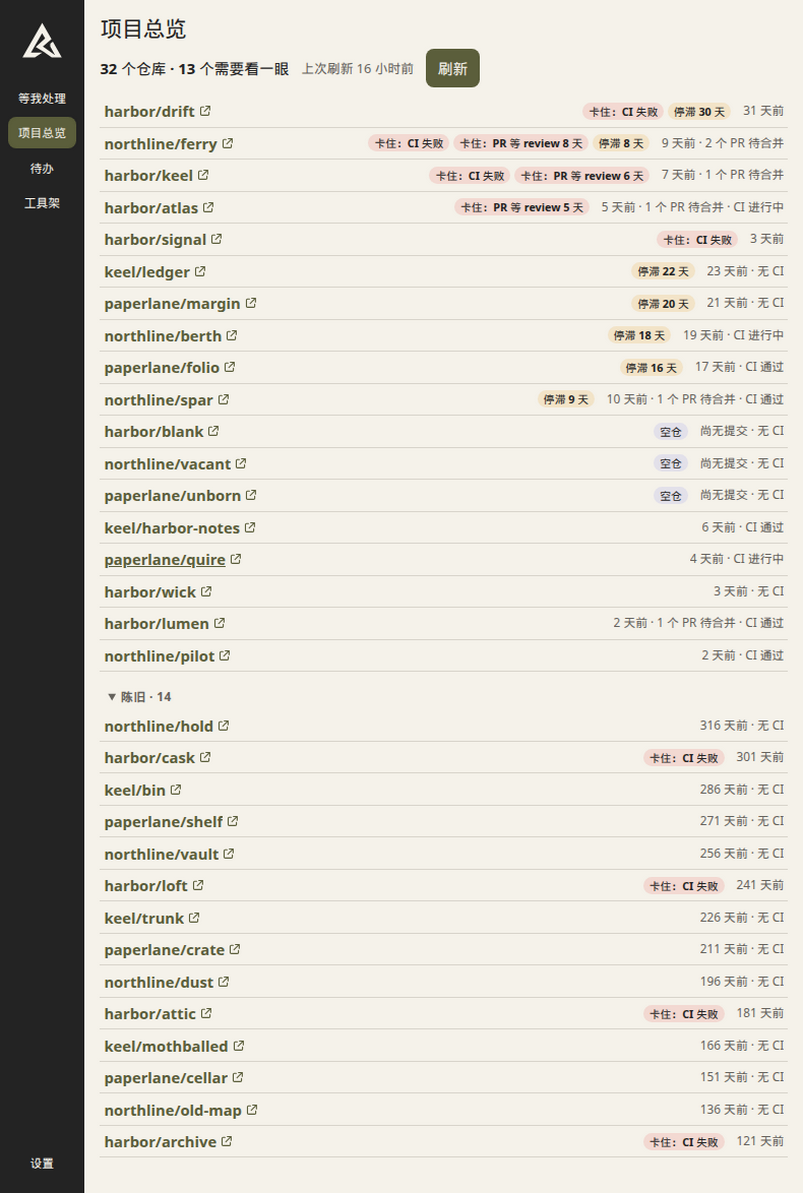
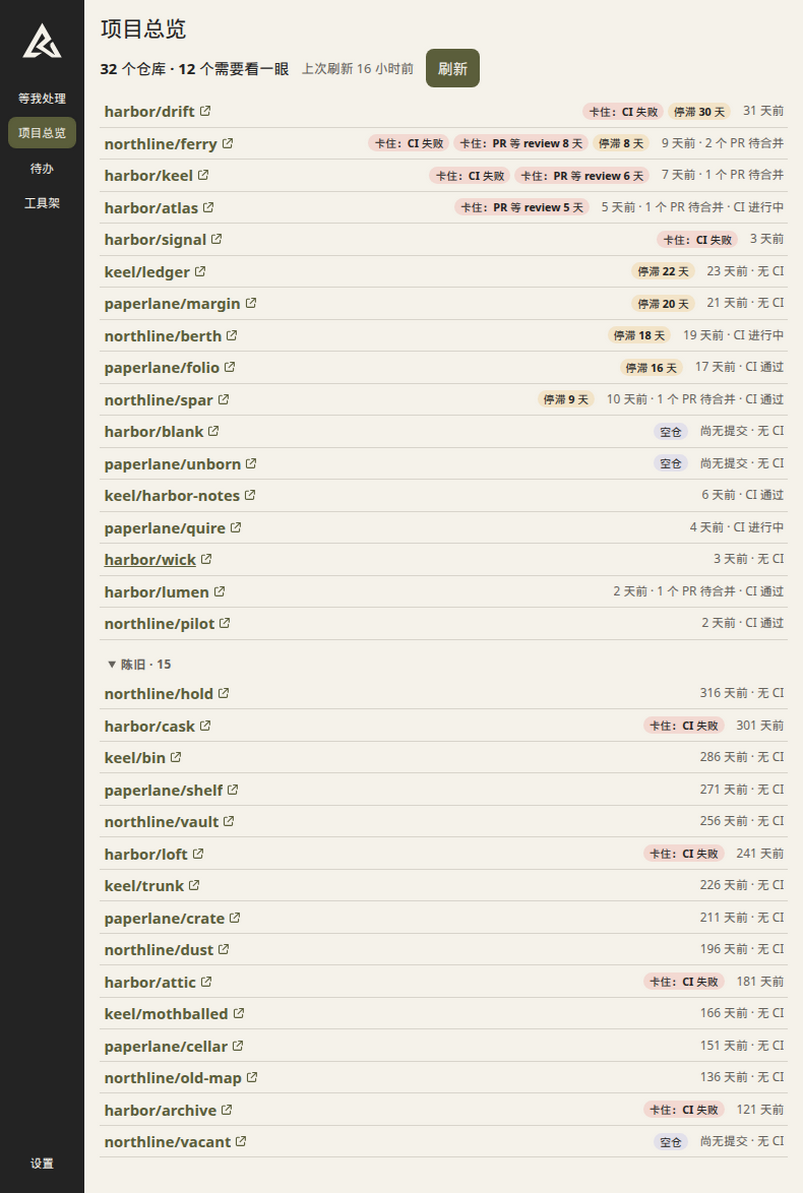
#3 空仓按创建和推送时间进入陈旧
没有提交也没有 Issue/PR 活动的仓库不再一律算活跃。最近活动取最后提交、Issue/PR、pushed_at 和 created_at 里最新的一个，超过陈旧天数就进陈旧分组，顶部计数仍排除这些行。

diff --git a/test/overview.test.ts b/test/overview.test.ts
@@ -32,6 +32,7 @@ function facts(patch: Partial<OverviewRepoFacts> = {}): OverviewRepoFacts {
     sizeKb: 24,
     hasDefaultBranchCommit: true,
     pushedAt: ago(1),
+    createdAt: null,
     lastCommitAt: ago(1),
     lastIssueActivityAt: null,
     openPrCount: 0,
@@ -167,8 +168,17 @@ describe('overview warnings', () => {
     expect(kinds(classifyOverview([facts({ sizeKb: 0 })], rules, NOW)[0]!)).toContain('空仓')
     expect(kinds(classifyOverview([facts({ hasDefaultBranchCommit: false, lastCommitAt: null })], rules, NOW)[0]!)).toContain('空仓')
 
-    const ancient = classifyOverview([facts({
+    const pushedRecently = classifyOverview([facts({
       pushedAt: ago(1),
+      createdAt: ago(200),
+      lastCommitAt: ago(91),
+      lastIssueActivityAt: ago(91)
+    })], rules, NOW)[0]
+    expect(pushedRecently?.group).toBe('active')
+    expect(kinds(pushedRecently!)).toEqual(['停滞'])
+    const ancient = classifyOverview([facts({
+      pushedAt: ago(91),
+      createdAt: ago(200),
       lastCommitAt: ago(91),
       lastIssueActivityAt: ago(91)
     })], rules, NOW)[0]
@@ -423,6 +433,69 @@ describe('overview warnings', () => {
     expect(countsAsAttention(activeEmpty)).toBe(true)
     expect(overviewCounts([staleFailure, staleEmpty, activeEmpty, aged(29)])).toEqual({ repos: 4, attention: 2 })
   })
+
+  it('groups an empty repo by the newest of commit, issue activity, push, and creation', () => {
+    const rules = config()
+    const untouched = (createdDays: number, patch: Partial<OverviewRepoFacts> = {}) => classifyOverview([facts({
+      name: 'example/untouched',
+      url: 'https://github.com/example/untouched',
+      isEmpty: true,
+      sizeKb: 0,
+      hasDefaultBranchCommit: false,
+      pushedAt: null,
+      lastCommitAt: null,
+      lastIssueActivityAt: null,
+      createdAt: ago(createdDays),
+      ciState: 'none',
+      ...patch
+    })], rules, NOW)[0]!
+
+    const yearsOld = untouched(800)
+    expect(yearsOld.group).toBe('stale')
+    expect(kinds(yearsOld)).toEqual(['空仓', '陈旧'])
+    expect(kinds(yearsOld)).not.toContain('停滞')
+    expect(visibleWarningChips(yearsOld).map(item => item.kind)).toEqual(['空仓'])
+    expect(countsAsAttention(yearsOld)).toBe(false)
+    expect(overviewCounts([yearsOld])).toEqual({ repos: 1, attention: 0 })
+
+    const born29 = untouched(29)
+    const born30 = untouched(30)
+    const born31 = untouched(31)
+    expect(born29.group).toBe('active')
+    expect(born30.group).toBe('active')
+    expect(born31.group).toBe('stale')
+    expect(kinds(born29)).toEqual(['空仓'])
+    expect(kinds(born29)).not.toContain('停滞')
+    expect(kinds(untouched(6))).not.toContain('停滞')
+    expect(countsAsAttention(born29)).toBe(true)
+    expect(countsAsAttention(born31)).toBe(false)
+    expect(visibleWarningChips(born31).map(item => item.kind)).toEqual(['空仓'])
+    expect(overviewCounts([born29, born31])).toEqual({ repos: 2, attention: 1 })
+
+    const discussed = untouched(400, { lastIssueActivityAt: ago(10) })
+    expect(discussed.group).toBe('active')
+    expect(kinds(discussed)).toEqual(['空仓'])
+    expect(countsAsAttention(discussed)).toBe(true)
+    expect(overviewCounts([discussed])).toEqual({ repos: 1, attention: 1 })
+
+    const pushed = (days: number) => untouched(400, {
+      name: 'example/side-push',
+      url: 'https://github.com/example/side-push',
+      isEmpty: false,
+      sizeKb: 4,
+      pushedAt: ago(days)
+    })
+    const recentPush = pushed(5)
+    expect(recentPush.group).toBe('active')
+    expect(kinds(recentPush)).toEqual(['空仓'])
+    expect(kinds(recentPush)).not.toContain('停滞')
+    expect(countsAsAttention(recentPush)).toBe(true)
+    const oldPush = pushed(40)
+    expect(oldPush.group).toBe('stale')
+    expect(visibleWarningChips(oldPush).map(item => item.kind)).toEqual(['空仓'])
+    expect(countsAsAttention(oldPush)).toBe(false)
+    expect(overviewCounts([recentPush, oldPush])).toEqual({ repos: 2, attention: 1 })
+  })
 })
 
 describe('overview loading', () => {
@@ -568,6 +641,7 @@ describe('overview loading', () => {
       isEmpty: empty,
       diskUsage: empty ? 0 : 8,
       pushedAt: empty ? null : ago(days),
+      createdAt: empty ? ago(500) : ago(days),
       defaultBranchRef: empty ? null : { target: { oid: 'abc', committedDate: ago(days), statusCheckRollup: null } },
       pullRequests: { totalCount: 0, nodes: [] },
       issues: { nodes: [] },
@@ -625,14 +699,16 @@ describe('overview loading', () => {
     expect(queries.some(query => /watching\s*\(/.test(query))).toBe(false)
     expect(queries.some(query => query.includes('OWNER, COLLABORATOR, ORGANIZATION_MEMBER'))).toBe(true)
     expect(seen.sort()).toEqual(['blank', 'collab', 'member', 'owned'])
+    expect(queries.some(query => query.includes('\n  createdAt\n'))).toBe(true)
     expect(result.rows.map(row => [row.name, row.group])).toEqual([
       ['example/collab', 'active'],
-      ['example/blank', 'active'],
       ['example/owned', 'active'],
-      ['example/member', 'stale']
+      ['example/member', 'stale'],
+      ['example/blank', 'stale']
     ])
     expect(result.rows.some(row => row.name.includes('only-watch') || row.name.includes('reader') || row.name.includes('triage'))).toBe(false)
-    expect(overviewCounts(result.rows)).toEqual({ repos: 4, attention: 2 })
+    expect(visibleWarningChips(result.rows.find(row => row.name === 'example/blank')!).map(item => item.kind)).toEqual(['空仓'])
+    expect(overviewCounts(result.rows)).toEqual({ repos: 4, attention: 1 })
     expect(result.rows.find(row => row.name === 'example/collab')?.warnings.map(item => item.kind)).toEqual(['停滞'])
     expect(result.rows.find(row => row.name === 'example/member')?.warnings.map(item => item.kind)).toEqual(['陈旧'])
   })
@@ -840,12 +916,21 @@ describe('repository node', () => {
       isEmpty: false,
       diskUsage: 0,
       pushedAt: null,
+      createdAt: ago(3),
       defaultBranchRef: null,
       pullRequests: { totalCount: 0, nodes: [] }
     }, 'example/new')
     expect(parsed.hasDefaultBranchCommit).toBe(false)
+    expect(parsed.createdAt).toBe(ago(3))
     expect(parsed.sizeKb).toBe(0)
-    expect(kinds(classifyOverview([parsed], config(), NOW)[0]!)).toContain('空仓')
+    const fresh = classifyOverview([parsed], config(), NOW)[0]!
+    expect(fresh.group).toBe('active')
+    expect(kinds(fresh)).toEqual(['空仓'])
+    expect(kinds(fresh)).not.toContain('停滞')
+    const dormant = classifyOverview([{ ...parsed, createdAt: ago(400) }], config(), NOW)[0]!
+    expect(dormant.group).toBe('stale')
+    expect(countsAsAttention(dormant)).toBe(false)
+    expect(visibleWarningChips(dormant).map(item => item.kind)).toEqual(['空仓'])
   })
 
   it('reads issue and pull comment times as activity, not only the commit', () => {

diff --git a/src/renderer/overview-settings.ts b/src/renderer/overview-settings.ts
@@ -36,7 +36,7 @@ export function renderOverviewSettings(state: AppState, rerender: () => Promise<
   const card = el('section', { class: 'card', id: 'overview-settings' }, [
     el('h2', {}, ['项目总览']),
     el('p', { class: 'hint' }, [
-      '关注列表留空时走自动模式，收录你有写权限的全部仓库：你拥有的、你是协作者的、以及你作为组织成员并且有推送权限的。只 watch、没有写权限的仓库不会出现，已归档的仓库默认也不出现。有提交或 Issue/PR 活动还在陈旧天数以内的进活跃列表，更久的进「陈旧」。每个仓库都会落在这两组之一。天数对所有仓库一视同仁，不写死某个仓库。'
+      '关注列表留空时走自动模式，收录你有写权限的全部仓库：你拥有的、你是协作者的、以及你作为组织成员并且有推送权限的。只 watch、没有写权限的仓库不会出现，已归档的仓库默认也不出现。没有单独的最近推送窗口。最近活动取最后一次提交、最近的 Issue/PR 活动、仓库推送时间和仓库创建时间里最新的一个（缺了哪项就跳过）；还在陈旧天数以内的进活跃列表，更久的进「陈旧」。每个未归档仓库都会落在这两组之一。天数对所有仓库一视同仁，不写死某个仓库。'
     ])
   ])
   const staleDays = numberField('停滞天数', config.staleDays)
@@ -68,7 +68,7 @@ export function renderOverviewSettings(state: AppState, rerender: () => Promise<
   card.append(
     el('h3', {}, ['停滞天数']),
     el('p', { class: 'hint' }, [
-      `默认 ${DEFAULT_STALE_DAYS} 天，只判活跃列表里的仓库。默认分支上的最后一次提交，以及 Issue / PR 的创建、更新和评论，两边都满了这么多天才标成停滞；有一边还在这段时间里就不算。行上的「停滞 X 天」按较新的那一边计算。陈旧分组里的仓库不再标停滞。`
+      `默认 ${DEFAULT_STALE_DAYS} 天，只判活跃列表里的仓库。默认分支上的最后一次提交，以及 Issue / PR 的创建、更新和评论，两边都满了这么多天才标成停滞；有一边还在这段时间里就不算。行上的「停滞 X 天」按较新的那一边计算。陈旧分组里的仓库不再标停滞。刚创建、还没有任何提交或 Issue/PR 活动的空仓不算停滞。`
     ]),
     staleDays,
     el('h3', {}, ['review 等待天数']),
@@ -76,7 +76,7 @@ export function renderOverviewSettings(state: AppState, rerender: () => Promise<
     reviewWaitDays,
     el('h3', {}, ['陈旧天数']),
     el('p', { class: 'hint' }, [
-      `默认 ${DEFAULT_STALE_REPO_DAYS} 天。看默认分支提交和 Issue / PR 活动里较新的那个时间：还在这么多天以内（含刚好这么多天）留在活跃列表，再久就收进可折叠的陈旧分组。页头「需要看一眼」不算陈旧分组里的仓库。`
+      `默认 ${DEFAULT_STALE_REPO_DAYS} 天。最近活动是最后一次提交、最近的 Issue / PR 活动、仓库推送时间和仓库创建时间里最新的一个。还在这么多天以内（含刚好这么多天）留在活跃列表，再久就收进可折叠的陈旧分组。页头「需要看一眼」不算陈旧分组里的仓库。陈旧的空仓不计入，行里仍显示「空仓」。`
     ]),
     staleRepoDays,
     el('label', { class: 'check' }, [showArchived, '显示已归档的仓库']),

diff --git a/src/shared/overview/classify.ts b/src/shared/overview/classify.ts
@@ -72,18 +72,32 @@ export function stallBasisOf(facts: Pick<OverviewRepoFacts, 'lastCommitAt' | 'la
 }
 
 /**
- * Active when the newer of the default-branch commit and issue/PR activity is
- * within `staleRepoDays` (that exact age still counts as active). Older than
- * that, the row is 陈旧. Missing activity stays active so a new empty repo is visible.
+ * Newest of the default-branch commit, issue/PR activity, repository push, and
+ * repository creation. Missing timestamps are skipped.
+ */
+export function recentActivityAt(facts: {
+  lastCommitAt?: string | null
+  lastIssueActivityAt?: string | null
+  pushedAt?: string | null
+  createdAt?: string | null
+}): string | null {
+  return [facts.lastCommitAt, facts.lastIssueActivityAt, facts.pushedAt, facts.createdAt]
+    .reduce<string | null>((best, value) => laterIso(best, value ?? null), null)
+}
+
+/**
+ * Active when the newest activity timestamp is within `staleRepoDays` (that
+ * exact age still counts as active). Older than that, the row is 陈旧. A repo
+ * with no timestamps at all stays active.
  */
 export function overviewGroup(
-  facts: Pick<OverviewRepoFacts, 'archived' | 'error' | 'lastCommitAt' | 'lastIssueActivityAt'>,
+  facts: Pick<OverviewRepoFacts, 'archived' | 'error' | 'lastCommitAt' | 'lastIssueActivityAt' | 'pushedAt' | 'createdAt'>,
   config: OverviewConfig,
   now: Date
 ): OverviewGroup {
   if (facts.archived) return 'archived'
   if (facts.error) return 'active'
-  const at = stallBasisOf(facts).at
+  const at = recentActivityAt(facts)
   if (!at) return 'active'
   if (waitingDays(at, now) > config.staleRepoDays) return 'stale'
   return 'active'
@@ -148,6 +162,7 @@ export function classifyRepo(
 
   const empty = isEmptyRepo(facts)
   const stale = group === 'stale'
+  const activityAt = recentActivityAt(facts)
   const stalledDays = stallBasis.at ? waitingDays(stallBasis.at, now) : 0
   const stalled = group === 'active' && !empty && Boolean(stallBasis.at) && stalledDays >= config.staleDays
   const stuck = facts.pullRequests
@@ -193,12 +208,12 @@ export function classifyRepo(
       urls: [facts.url]
     }))
   }
-  if (stale && stallBasis.at) {
+  if (stale && activityAt) {
     warnings.push(warning({
       kind: '陈旧',
       label: '陈旧',
-      days: waitingDays(stallBasis.at, now),
-      hint: `提交和 Issue/PR 活动超过 ${config.staleRepoDays} 天`,
+      days: waitingDays(activityAt, now),
+      hint: `最近活动超过 ${config.staleRepoDays} 天`,
       urls: [facts.url]
     }))
   }

diff --git a/src/main/screenshot-scene.ts b/src/main/screenshot-scene.ts
@@ -44,6 +44,7 @@ export const SCREENSHOT_SCENES = [
   'overview-row-error',
   'overview-narrow',
   'overview-chip-hover',
+  'overview-settings',
   ...TOOL_SCREENSHOT_SCENES
 ] as const
 
@@ -82,6 +83,7 @@ export function screenshotWindowSize(scene: ScreenshotScene): { width: number, h
   if (scene === 'waiting-hidden') return { width: 1180, height: 980 }
   if (scene === 'waiting-watch' || scene === 'waiting-family') return { width: 1180, height: 720 }
   if (scene === 'overview-archived') return { width: 1180, height: 820 }
+  if (scene === 'overview-settings') return { width: 1120, height: 1280 }
   if (scene === 'waiting' || scene === 'waiting-rate-limit' || scene === 'overview' || scene === 'overview-collapsed') return { width: 1180, height: 1680 }
   if (scene === 'nav' || scene === 'todos-empty') return { width: 1120, height: 760 }
   if (scene === 'todos' || scene === 'todos-filter' || scene === 'todos-delete') {
@@ -102,6 +104,7 @@ export function screenshotOpensSettings(scene: ScreenshotScene): boolean {
     || scene === 'connected'
     || scene === 'hotkey-conflict'
     || scene === 'hotkey-save-conflict'
+    || scene === 'overview-settings'
     || scene === 'tools-invalid'
 }
 
@@ -153,6 +156,7 @@ export function screenshotReadyText(scene: ScreenshotScene): string {
   if (scene === 'overview-invalid-token') return 'GitHub 认证无效或已过期'
   if (scene === 'overview-loading') return '正在刷新'
   if (scene === 'overview-row-error') return '仓库不存在或无权访问'
+  if (scene === 'overview-settings') return '没有单独的最近推送窗口'
   return '等我处理'
 }
 

diff --git a/src/shared/overview/sample.ts b/src/shared/overview/sample.ts
@@ -24,6 +24,7 @@ function repo(input: {
   owner: string
   name: string
   days?: number
+  createdDays?: number
   empty?: boolean
   sizeKb?: number | null
   commit?: boolean
@@ -43,6 +44,9 @@ function repo(input: {
     sizeKb: input.sizeKb === undefined ? (empty ? 0 : 128) : input.sizeKb,
     hasDefaultBranchCommit: hasCommit,
     pushedAt: input.days === undefined ? null : ago(input.days),
+    createdAt: input.createdDays !== undefined
+      ? ago(input.createdDays)
+      : input.days === undefined ? null : ago(input.days),
     lastCommitAt: hasCommit && input.days !== undefined ? ago(input.days) : null,
     lastIssueActivityAt: null,
     openPrCount: input.openPrCount ?? input.pulls?.length ?? 0,
@@ -67,7 +71,7 @@ export function sampleOverviewFacts(): OverviewRepoFacts[] {
     repo({ owner: 'northline', name: 'berth', days: 18, ci: 'pending' }),
     repo({ owner: 'keel', name: 'ledger', days: 22, ci: 'none' }),
     repo({ owner: 'harbor', name: 'blank', empty: true, days: 2, ci: 'none' }),
-    repo({ owner: 'northline', name: 'vacant', empty: true, sizeKb: 0, commit: false, ci: 'none' }),
+    repo({ owner: 'northline', name: 'vacant', empty: true, sizeKb: 0, commit: false, createdDays: 900, ci: 'none' }),
     repo({ owner: 'paperlane', name: 'unborn', days: 4, sizeKb: 40, commit: false, ci: 'none' }),
     repo({ owner: 'harbor', name: 'signal', days: 2, ci: 'failure' }),
     repo({ owner: 'northline', name: 'pilot', days: 1, ci: 'success' }),

diff --git a/src/shared/overview/types.ts b/src/shared/overview/types.ts
@@ -29,9 +29,11 @@ export interface OverviewConfig {
   /** Days an open non-draft pull request can wait for review before 卡住. */
   reviewWaitDays: number
   /**
-   * Days since the newer of the default-branch commit and issue/PR activity
-   * before a repo leaves the active list for the 陈旧 group. Age equal to this
-   * value stays active; only a greater age is 陈旧.
+   * Days since the newest of the default-branch commit, issue/PR activity,
+   * repository pushedAt, and repository createdAt before a repo leaves the
+   * active list for the 陈旧 group. Missing timestamps are skipped. Age equal
+   * to this value stays active; only a greater age is 陈旧. A repo with no
+   * timestamps at all stays active.
    */
   staleRepoDays: number
   maxScopeRepos: number
@@ -73,6 +75,8 @@ export interface OverviewRepoFacts {
   sizeKb: number | null
   hasDefaultBranchCommit: boolean
   pushedAt: string | null
+  /** Repository createdAt. Used when the repo has never been pushed or edited. */
+  createdAt: string | null
   /** Default-branch commit time. Not a push to some other branch. */
   lastCommitAt: string | null
   /**

diff --git a/src/main/screenshot-run.ts b/src/main/screenshot-run.ts
@@ -224,6 +224,27 @@ export async function presentScreenshot(options: {
         true
       `)
     }
+    if (scene === 'overview-settings') {
+      await contents.executeJavaScript(`
+        document.querySelector('#overview-settings')?.scrollIntoView({ block: 'start' })
+        true
+      `)
+      await waitUntil(contents, `(() => {
+        const card = document.querySelector('#overview-settings')
+        if (!card) return false
+        const text = card.innerText
+        const rect = card.getBoundingClientRect()
+        return text.includes('默认 7 天')
+          && text.includes('默认 30 天')
+          && text.includes('没有单独的最近推送窗口')
+          && !text.includes('推送窗口天数')
+          && !card.querySelector('[aria-label*="推送"]')
+          && rect.top >= -2
+          && rect.top < 120
+          && rect.bottom > 400
+          && rect.bottom <= window.innerHeight
+      })()`, 'overview settings')
+    }
     if (scene === 'overview-chip-hover') {
       await contents.executeJavaScript(`
         const chip = document.querySelector('a.chip-link')

diff --git a/src/overview/load.ts b/src/overview/load.ts
@@ -112,6 +112,7 @@ const REPO_FIELDS = `
   isEmpty
   isArchived
   diskUsage
+  createdAt
   pushedAt
   defaultBranchRef {
     target {
@@ -182,6 +183,7 @@ function errorFacts(name: string, message: string): OverviewRepoFacts {
     sizeKb: null,
     hasDefaultBranchCommit: false,
     pushedAt: null,
+    createdAt: null,
     lastCommitAt: null,
     lastIssueActivityAt: null,
     openPrCount: 0,
@@ -333,6 +335,7 @@ export function parseRepositoryNode(node: unknown, requestedName: string): Overv
     sizeKb,
     hasDefaultBranchCommit: Boolean(oid || committedDate),
     pushedAt: 'pushedAt' in node && typeof node.pushedAt === 'string' ? node.pushedAt : null,
+    createdAt: 'createdAt' in node ? readIso(node.createdAt) : null,
     lastCommitAt: committedDate,
     lastIssueActivityAt: readIssueActivity(node),
     openPrCount,

diff --git a/README.md b/README.md
@@ -30,8 +30,8 @@ npm run overview -- --json
 
 关注列表为空时走自动模式：列出你有写权限的全部仓库，也就是你拥有的、你是协作者的、以及你作为组织成员并且有推送权限的（`ADMIN` / `MAINTAIN` / `WRITE`）。只 watch、没有写权限的仓库不会出现，也不会计入页头数量。已归档仓库默认继续排除。没有单独的「最近 push」窗口。两个天数都可以在设置里改，默认是：
 
-- 陈旧 30 天。默认分支提交和 Issue / PR 活动（创建、更新、评论）里较新的那个还在 30 天以内（含刚好 30 天）就留在活跃列表；超过 30 天才进「陈旧」。每个未归档仓库都会落在这两组之一。
-- 停滞 7 天，只判活跃列表里的仓库。默认分支最后一次提交，以及 Issue / PR 活动，两边都满 7 天才算停滞；有一边还在 7 天内就不算。行上的「停滞 X 天」按较新的那一边计算。陈旧分组不再标停滞。
+- 陈旧 30 天。最近活动取最后一次提交、最近的 Issue / PR 活动（创建、更新、评论）、仓库推送时间和仓库创建时间里最新的一个，缺了哪项就跳过。还在 30 天以内（含刚好 30 天）就留在活跃列表；超过 30 天才进「陈旧」。每个未归档仓库都会落在这两组之一。没有提交、也没有 Issue/PR 的空仓不再一律算活跃：多年前创建、之后没动过的空仓进「陈旧」。
+- 停滞 7 天，只判活跃列表里的仓库。默认分支最后一次提交，以及 Issue / PR 活动，两边都满 7 天才算停滞；有一边还在 7 天内就不算。行上的「停滞 X 天」按较新的那一边计算。陈旧分组不再标停滞。刚创建、还没有任何提交或 Issue/PR 活动的空仓不算停滞。
 - 页头「需要看一眼」不算陈旧分组里的任何仓库，包括陈旧的空仓和陈旧仓库上的 CI 失败。这些提醒仍显示在行里。空仓只有留在活跃列表时才计入，并且行里仍显示「空仓」。
 
 设置写在 `app.getPath('userData')`。应用启动时把该目录指到 `%APPDATA%\Arckeep\`（目录名是 `Arckeep`，不是 package 名的小写）。GitHub token 经 Electron `safeStorage` 加密后写入 `settings.json`，不写日志、不以明文落盘。本机 `gh auth token` 可用时优先使用 gh CLI，不把这份 token 再存一份。
